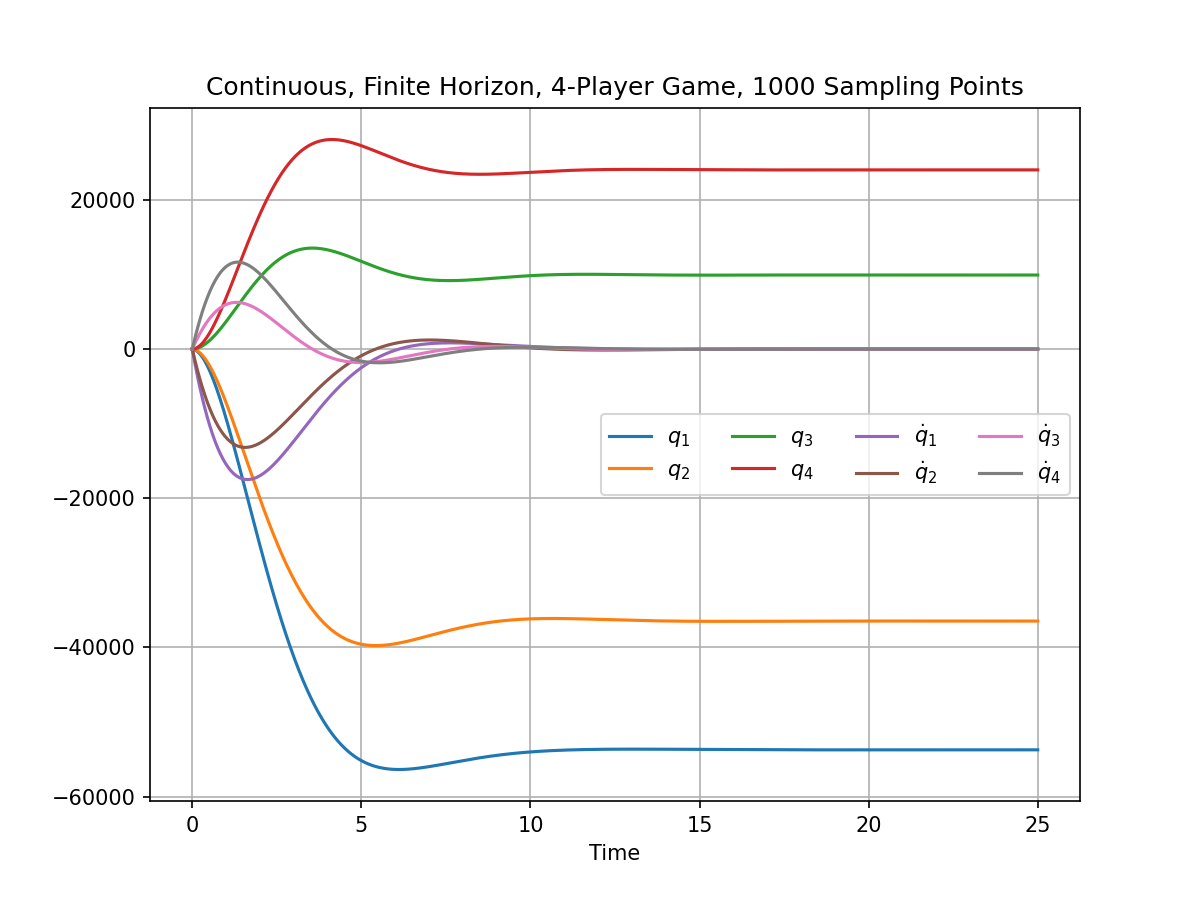
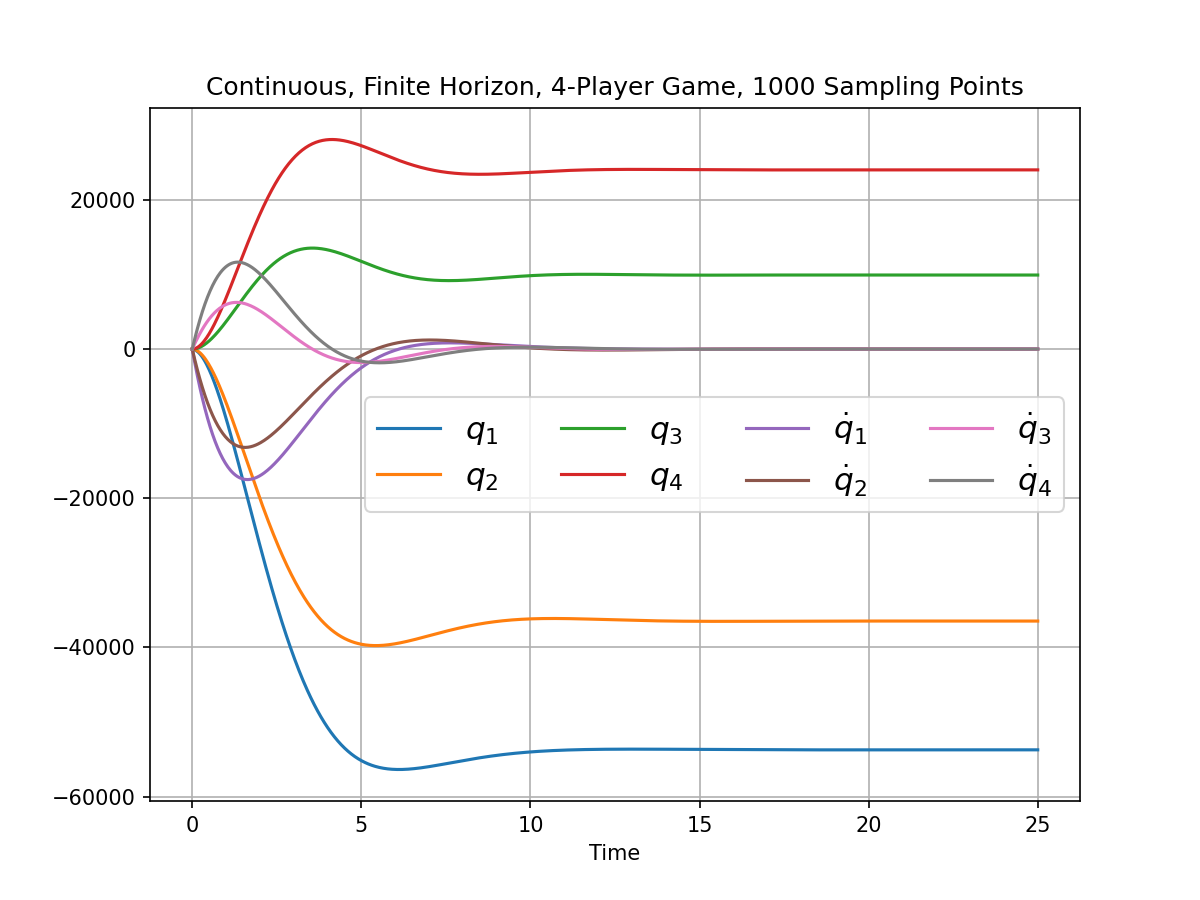
30.1.23 final update

diff --git a/src/PyDiffGame/examples/PVTOLComparison.py b/src/PyDiffGame/examples/PVTOLComparison.py
@@ -18,22 +18,20 @@ class PVTOLComparison(PyDiffGameLQRComparison):
         m = 4  # mass of aircraft
         J = 0.0475  # inertia around pitch axis
         r = 0.25  # distance to center of force
-        g = 9.81  # gravitational constant
         c = 0.05  # damping factor (estimated)
 
         I_3 = np.eye(3)
         Z_3 = np.zeros((3, 3))
 
-        A = np.block([[I_3, Z_3],
-                      ])
-        A = np.array(
-            [[0, 0, 0, 1, 0, 0],
-             [0, 0, 0, 0, 1, 0],
-             [0, 0, 0, 0, 0, 1],
-             [0, 0, -g / m, -c / m, 0, 0],
-             [0, 0, 0, 0, -c / m, 0],
-             [0, 0, 0, 0, 0, 0]]
-        )
+        A_11 = Z_3
+        A_12 = I_3
+        A_21 = np.array([[0, 0, -PyDiffGame.g],
+                         [0, 0, 0],
+                         [0, 0, 0]])
+        A_22 = np.diag([-c / m, -c / m, 0])
+
+        A = np.block([[A_11, A_12],
+                      [A_21, A_22]])
 
         # Input matrix
         B = np.array(
@@ -45,25 +43,32 @@ class PVTOLComparison(PyDiffGameLQRComparison):
              [r / J, 0]]
         )
 
-        I = np.eye(2)
+        I_2 = np.eye(2)
 
-        M = I
+        M = I_2
         Ms = [M[0, :].reshape(1, M.shape[1]), M[1, :].reshape(1, M.shape[1])]
 
-        q_s = 1
-        q_l = q_s * 10000
+        # q_s = 1
+        # q_l = q_s * 10000
 
-        r_y = 10000
+        q_x = 10
+        q_theta = 10
+        q_y = 10000
+
         r_x_theta = 10
+        r_y = 10000
 
-        Q_y = np.diag([q_s, q_l, q_s]*2)
-        Q_x_theta = np.diag([q_l, q_s, q_l]*2)
+        # Q_y = np.diag([q_s, q_l, q_s] * 2)
+        # Q_x_theta = np.diag([q_l, q_s, q_l]*2)
 
-        Qs = [Q_y, Q_x_theta]
-        Rs = [np.array([r_y]), np.array([r_x_theta])]
+        Q_x_theta = np.diag([q_x, 0, q_theta] + [0] * 3)
+        Q_y = np.diag([0, q_y, 0] + [0] * 3)
+
+        Qs = [Q_x_theta, Q_y]
+        Rs = [np.array([r_x_theta]), np.array([r_y])]
 
         R_lqr = np.diag([r_y, r_x_theta])
-        Q_lqr = np.diag([q_s, q_l, q_s] * 2)
+        Q_lqr = np.diag([q_x, q_y, q_theta] + [0] * 3)
 
         variables = ['x', 'y', '\\theta']
 
@@ -100,13 +105,14 @@ if __name__ == '__main__':
     epsilon_x, epsilon_P = 10 ** (-6), 10 ** (-6)
 
     x_0 = np.zeros((6,))
-    # x_0 = np.array([-10, 0] + [0] * 4)
     x_d = 10
     y_d = 50
     x_T = np.array([x_d, y_d] + [0] * 4)
+    T_f = 25
 
     pvtol = PVTOLComparison(x_0=x_0,
                             x_T=x_T,
+                            T_f=T_f,
                             epsilon_x=epsilon_x,
                             epsilon_P=epsilon_P)
     pvtol(plot_state_spaces=True,

diff --git a/src/PyDiffGame/PyDiffGame.py b/src/PyDiffGame/PyDiffGame.py
@@ -431,9 +431,6 @@ class PyDiffGame(ABC, Callable, Sequence):
             Indicates whether to plot two state spaces
         """
 
-        num_of_variables = temporal_variables.shape[1]
-        variables_range = range(1, num_of_variables + 1)
-
         self._fig = plt.figure(dpi=150)
         self._fig.set_size_inches(8, 6)
         plt.plot(t[:temporal_variables.shape[0]], temporal_variables)
@@ -445,7 +442,7 @@ class PyDiffGame(ABC, Callable, Sequence):
         if self.__show_legend:
             if is_P:
                 labels = ['${P' + str(i) + '}_{' + str(j) + str(k) + '}$' for i in range(1, self._N + 1)
-                          for j in variables_range for k in variables_range]
+                          for j in range(1, self._n + 1) for k in range(1, self._n + 1)]
             elif output_variables_names is not None:
                 labels = output_variables_names
             elif self.__state_variables_names is not None:
@@ -455,12 +452,14 @@ class PyDiffGame(ABC, Callable, Sequence):
                 else:
                     labels = [f'${name}$' for name in self.__state_variables_names]
             else:
-                labels = ["${\mathbf{x}}_{" + str(j) + "}$" for j in variables_range]
+                labels = ["${\mathbf{x}}_{" + str(j) + "}$" for j in range(1, self._n + 1)]
 
             plt.legend(labels=labels,
                        loc='upper left' if is_P else 'best',
-                       ncol=int(num_of_variables / 2),
-                       prop={'size': int(80 / num_of_variables)})
+                       ncol=2,
+                       prop={'size': int(80 / self._n)},
+                       # bbox_to_anchor=(1, 0.5)
+                       )
 
         plt.grid()
         plt.show()
@@ -564,6 +563,9 @@ class PyDiffGame(ABC, Callable, Sequence):
         if self._x_0 is None:
             raise RuntimeError('No parameter x_0 was defined to illustrate a figure')
 
+        if figure_filename == PyDiffGame._default_figures_filename:
+            figure_filename += '0'
+
         if not figure_path.is_dir():
             os.mkdir(figure_path)
 
@@ -571,7 +573,7 @@ class PyDiffGame(ABC, Callable, Sequence):
 
         while figure_full_filename.is_file():
             curr_name = figure_full_filename.name
-            curr_num = int(curr_name.split('.png')[-2].split(figure_filename)[-1])
+            curr_num = int(curr_name.split('.png')[0][-1])
             next_num = curr_num + 1
             figure_full_filename = Path(fr'{figure_path}/image{next_num}.png')
 

diff --git a/src/PyDiffGame/examples/MassesWithSpringsComparison.py b/src/PyDiffGame/examples/MassesWithSpringsComparison.py
@@ -147,6 +147,7 @@ def multiprocess_worker_function(N: int,
     output_variables_names = ['$x_1 + x_2$', '$x_1 - x_2$', '$\\dot{x}_1 + \\dot{x}_2$', '$\\dot{x}_1 - \\dot{x}_2$'] \
         if N == 2 else [f'$q_{i}$' for i in range(1, N + 1)] + ['$\\dot{q}_{' + str(i) + '}$' for i in range(1, N + 1)]
 
+    T_f = 25
     masses_with_springs = MassesWithSpringsComparison(N=N,
                                                       m=m,
                                                       k=k,
@@ -154,7 +155,7 @@ def multiprocess_worker_function(N: int,
                                                       r=r,
                                                       x_0=x_0,
                                                       x_T=x_T,
-                                                      T_f=25,
+                                                      T_f=T_f,
                                                       epsilon_x=epsilon_x,
                                                       epsilon_P=epsilon_P)
 

diff --git a/src/PyDiffGame/examples/PVTOL.py b/src/PyDiffGame/examples/PVTOL.py
@@ -2,7 +2,7 @@
 # RMM, 14 Jan 03
 #
 # This file works through an LQR based design problem, using the
-# planar vertical takeoff and landing (PVTOComparison.py) aircraft example from
+# planar vertical takeoff and landing (PVTOLComparison.py) aircraft example from
 # Astrom and Murray, Chapter 5.  It is intended to demonstrate the
 # basic functionality of the python-control package.
 #
@@ -15,7 +15,7 @@ import control as ct
 #
 # System dynamics
 #
-# These are the dynamics for the PVTOComparison.py system, written in state space
+# These are the dynamics for the PVTOLComparison.py system, written in state space
 # form.
 #
 
